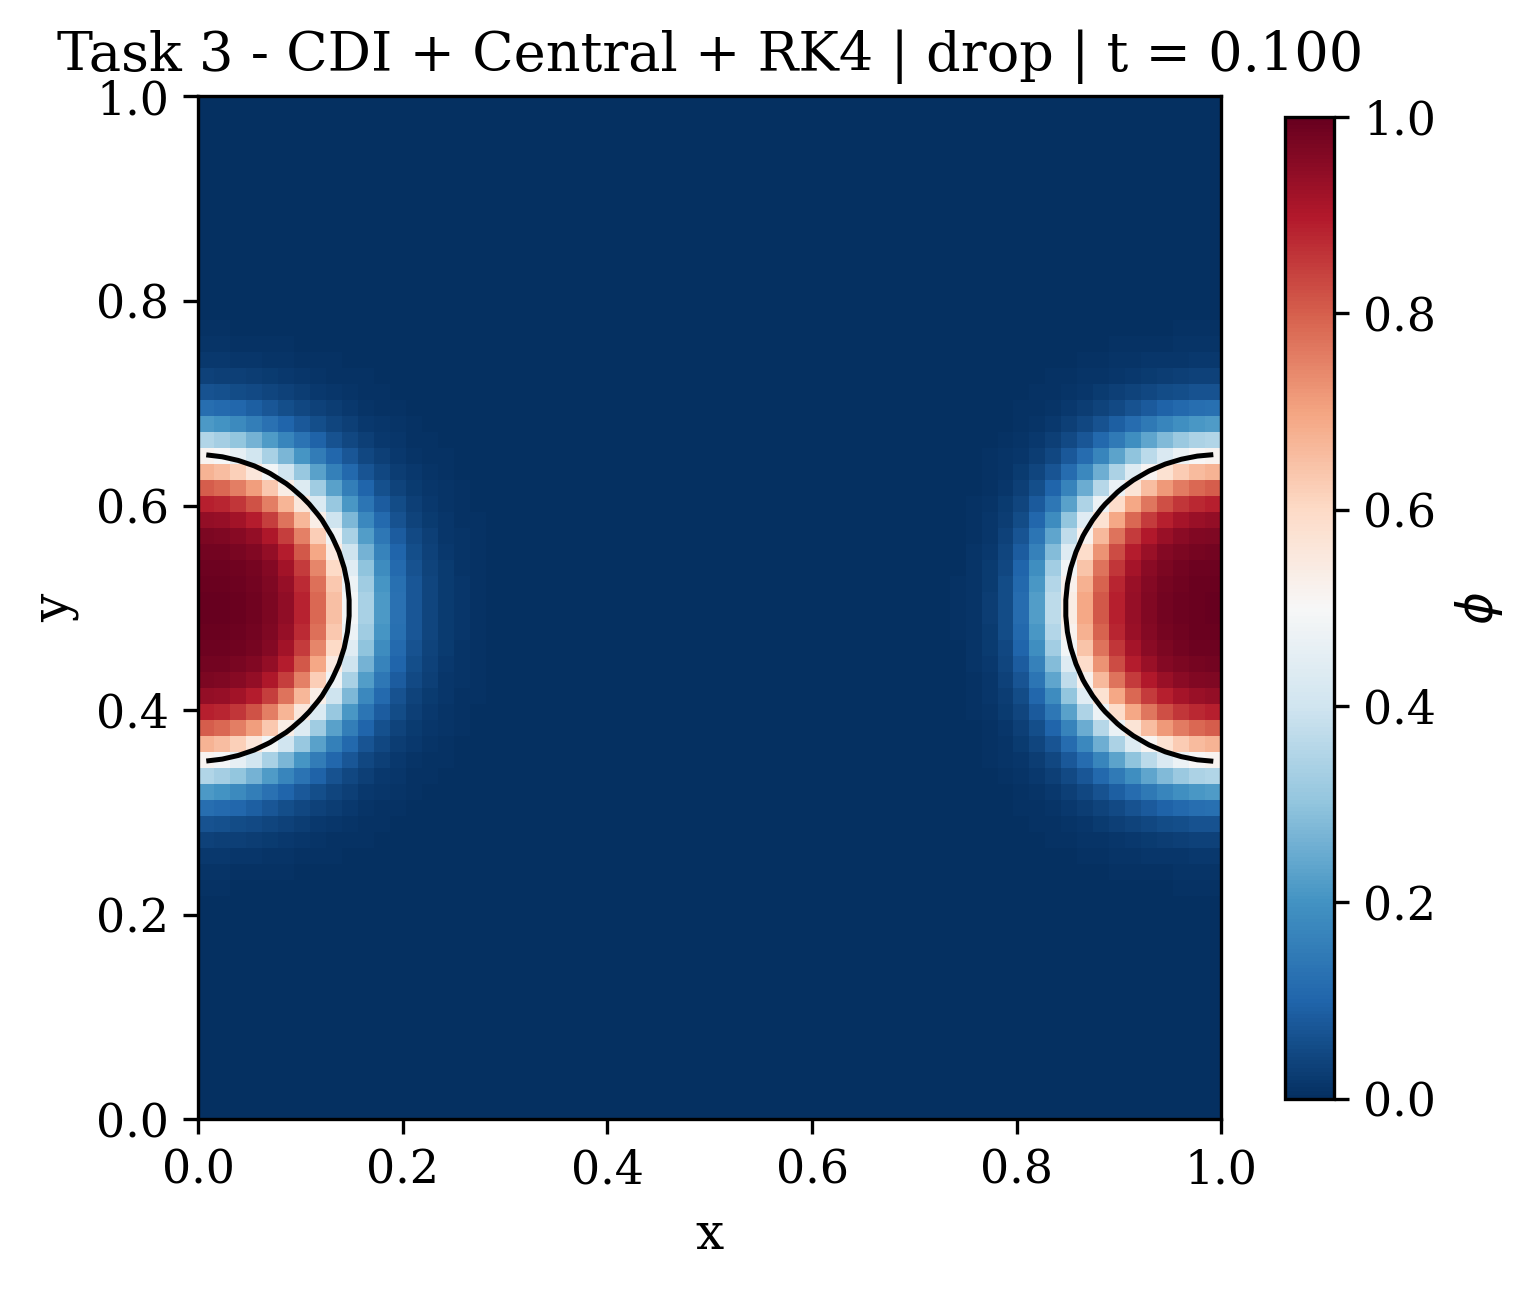
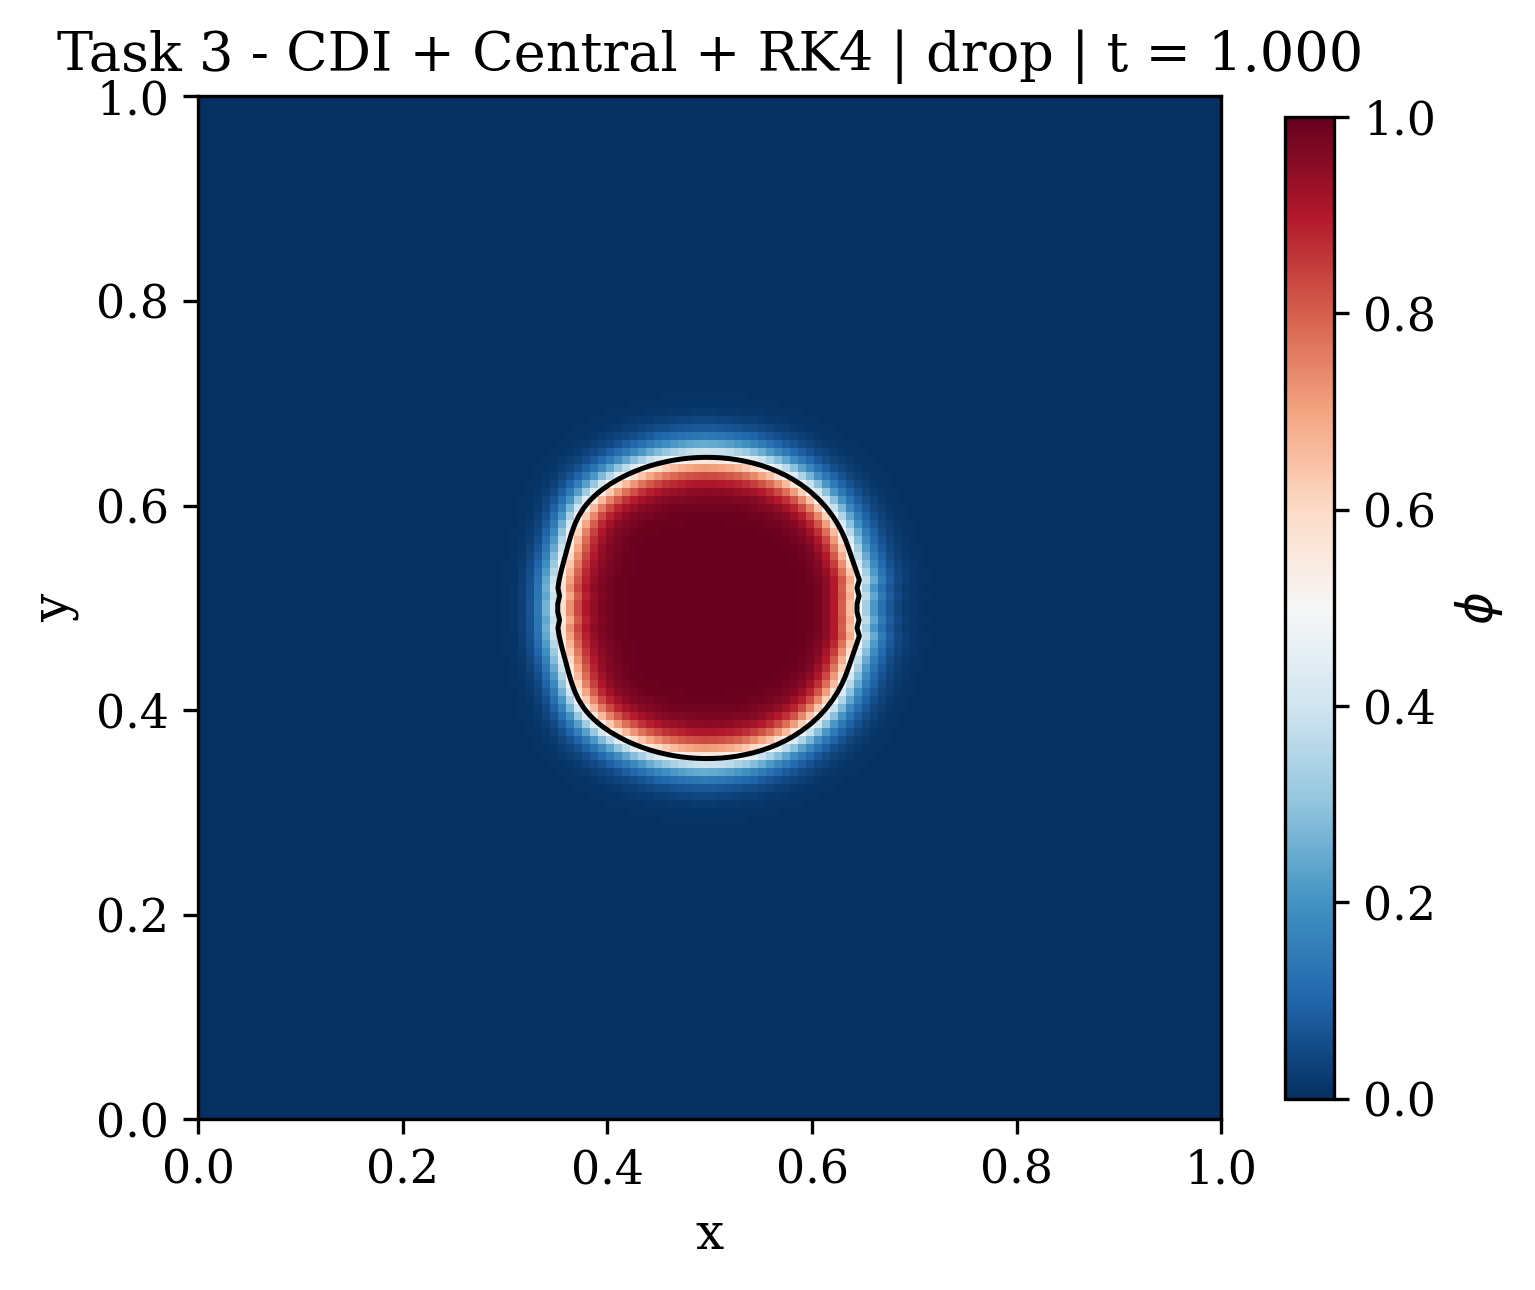
change config

diff --git a/src/config.py b/src/config.py
@@ -92,7 +92,7 @@ DROP_ADVECTION_CFG: dict = {
     "velocity": "uniform",
     "U0": 5.0,            # advection velocity (problem statement)
     "V0": 0.0,
-    "t_end": 0.1,         # drop travels U0 * t_end = 0.5 domain lengths
+    "t_end": 1,         # drop travels U0 * t_end = 0.5 domain lengths
     "dt": 1e-4,           # explicit Euler / RK4 time step
 }
 
